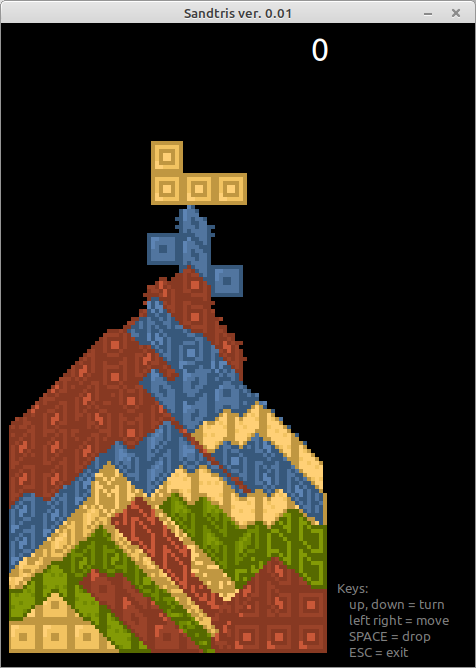
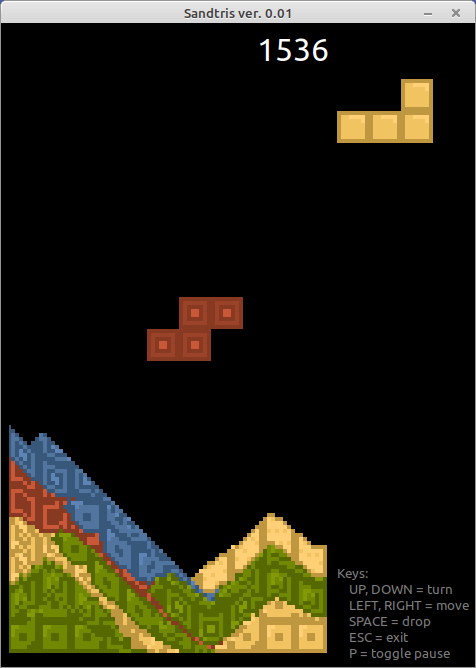
update readme and preview image

diff --git a/README.md b/README.md
@@ -1,12 +1,15 @@
 # Sandtris, TETRIS Clone with sand simulation engine
 
-! This is a work in progress !
-
 Inspired by this youtube video https://www.youtube.com/shorts/aaCWkot8mIU i wanted to have my own TETRIS clone with this special touch ;).
 
 ![](preview.png)
 
-ATM the sand emulation engine is running, the game itself is not yet playable.
+Implemented Features:
+ - 4 Colors
+ - 7 different pieces
+ - Highscorer calculations (only shown not stored)
+
+This example still has lots of ways to be improved but is still playable ;).
 
 License
 
